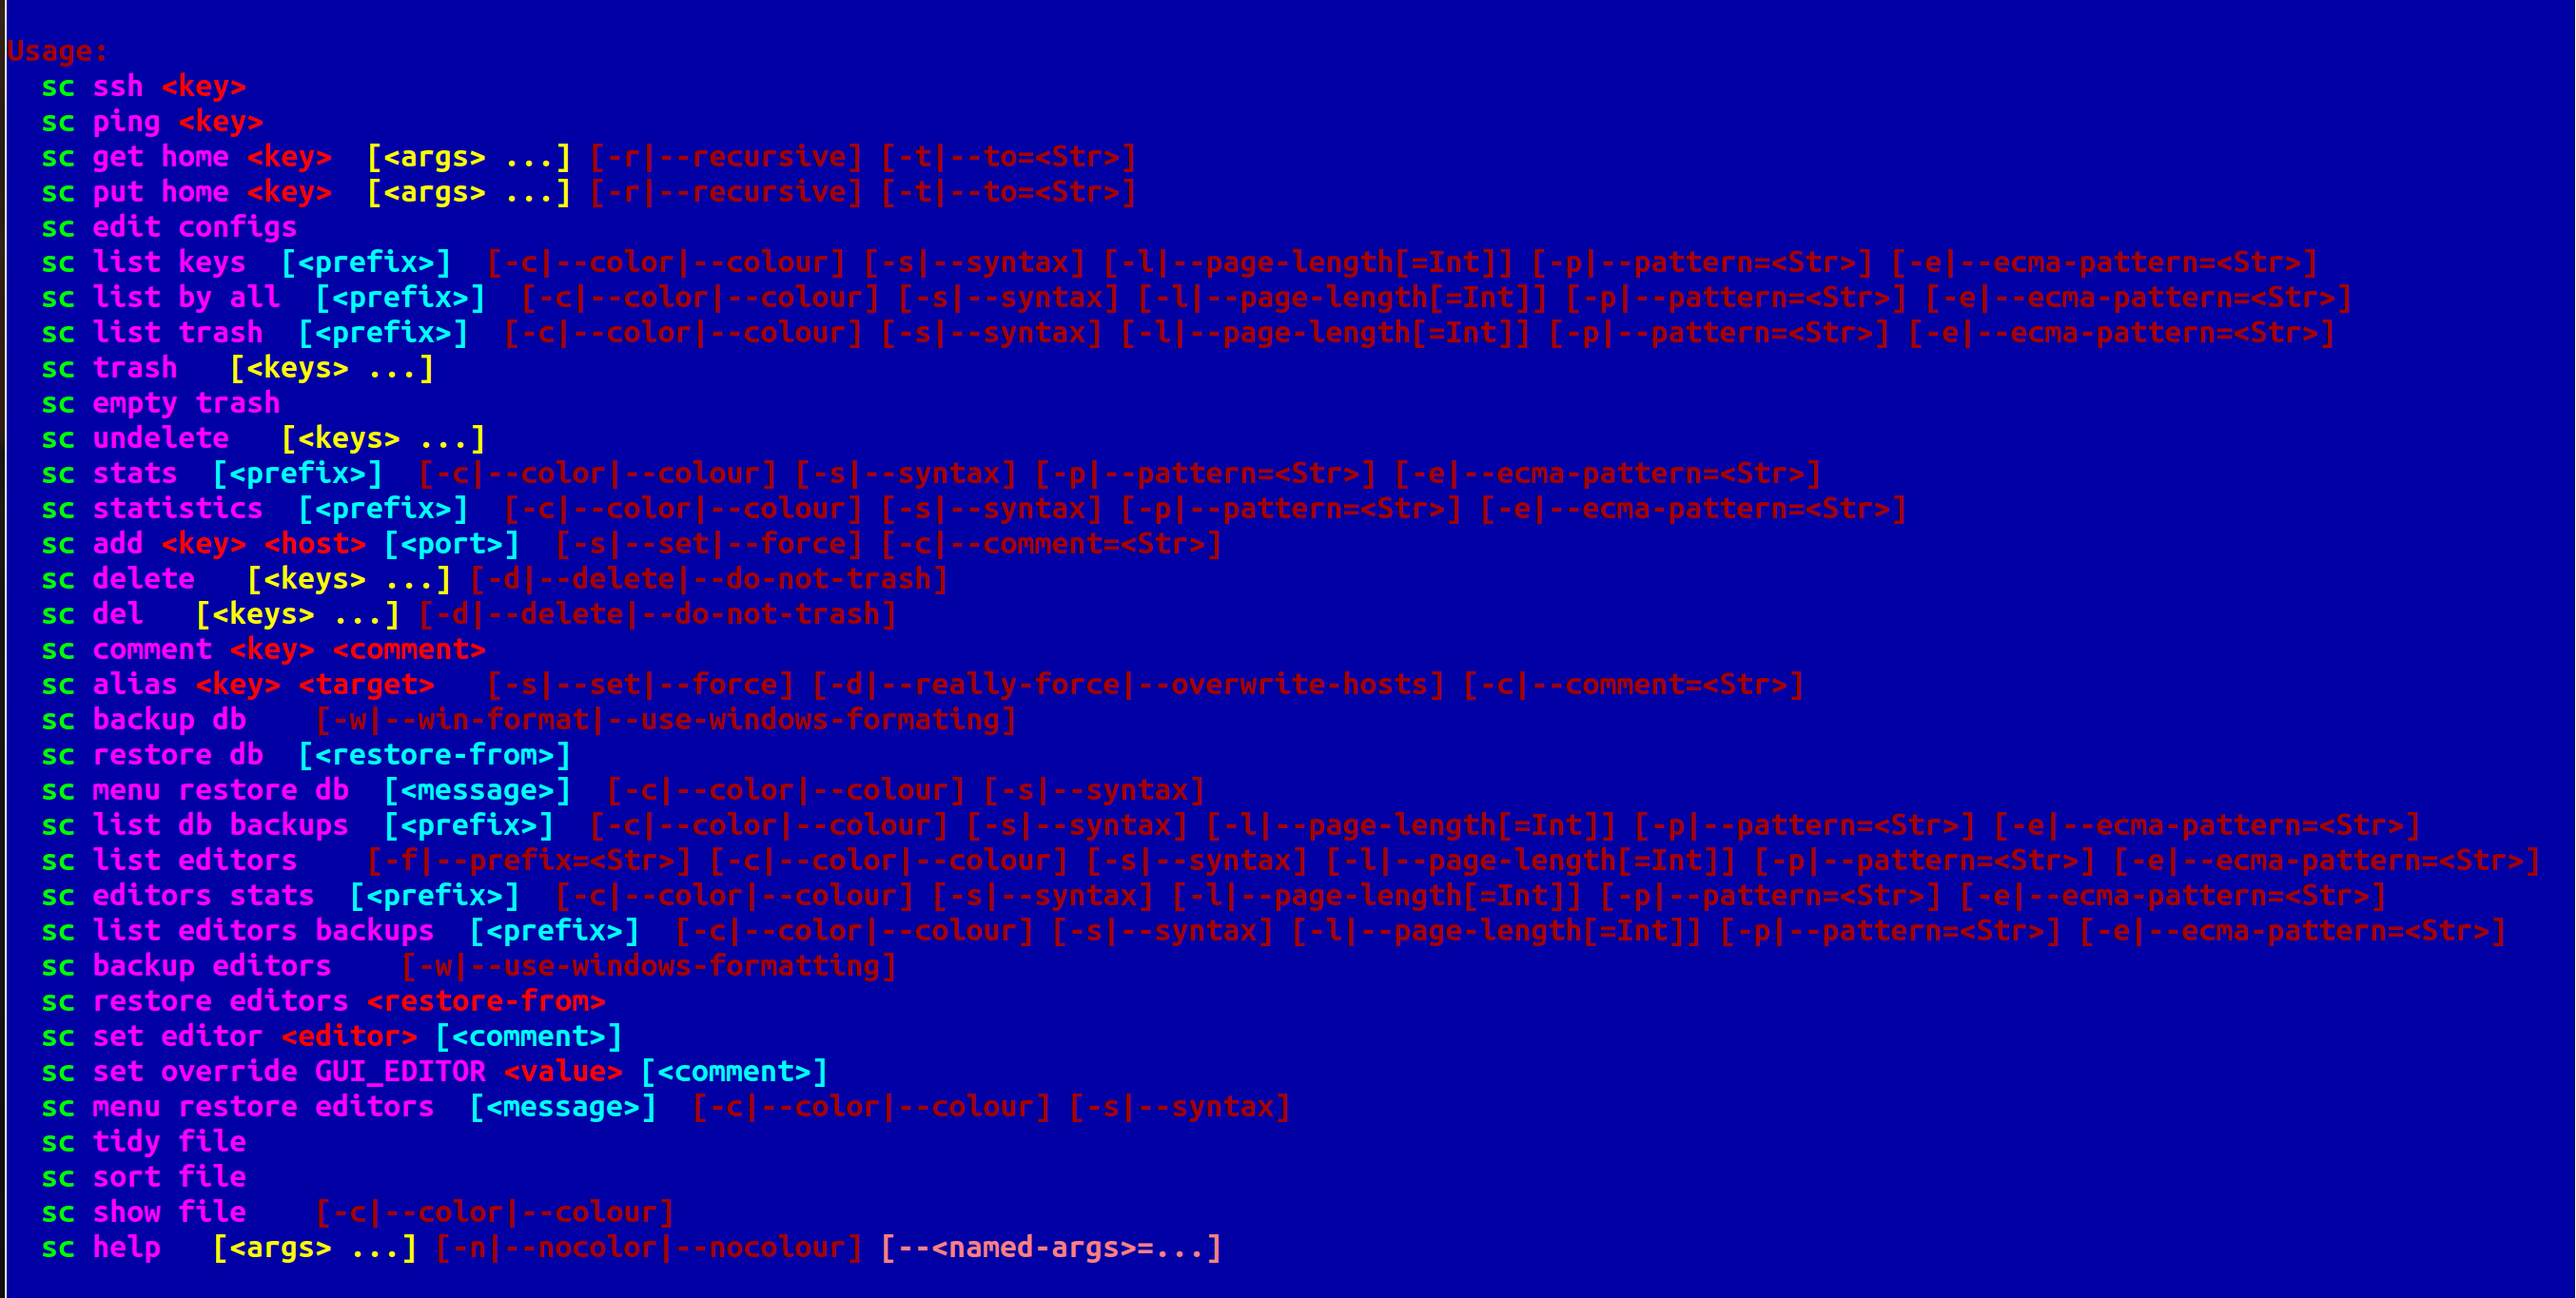
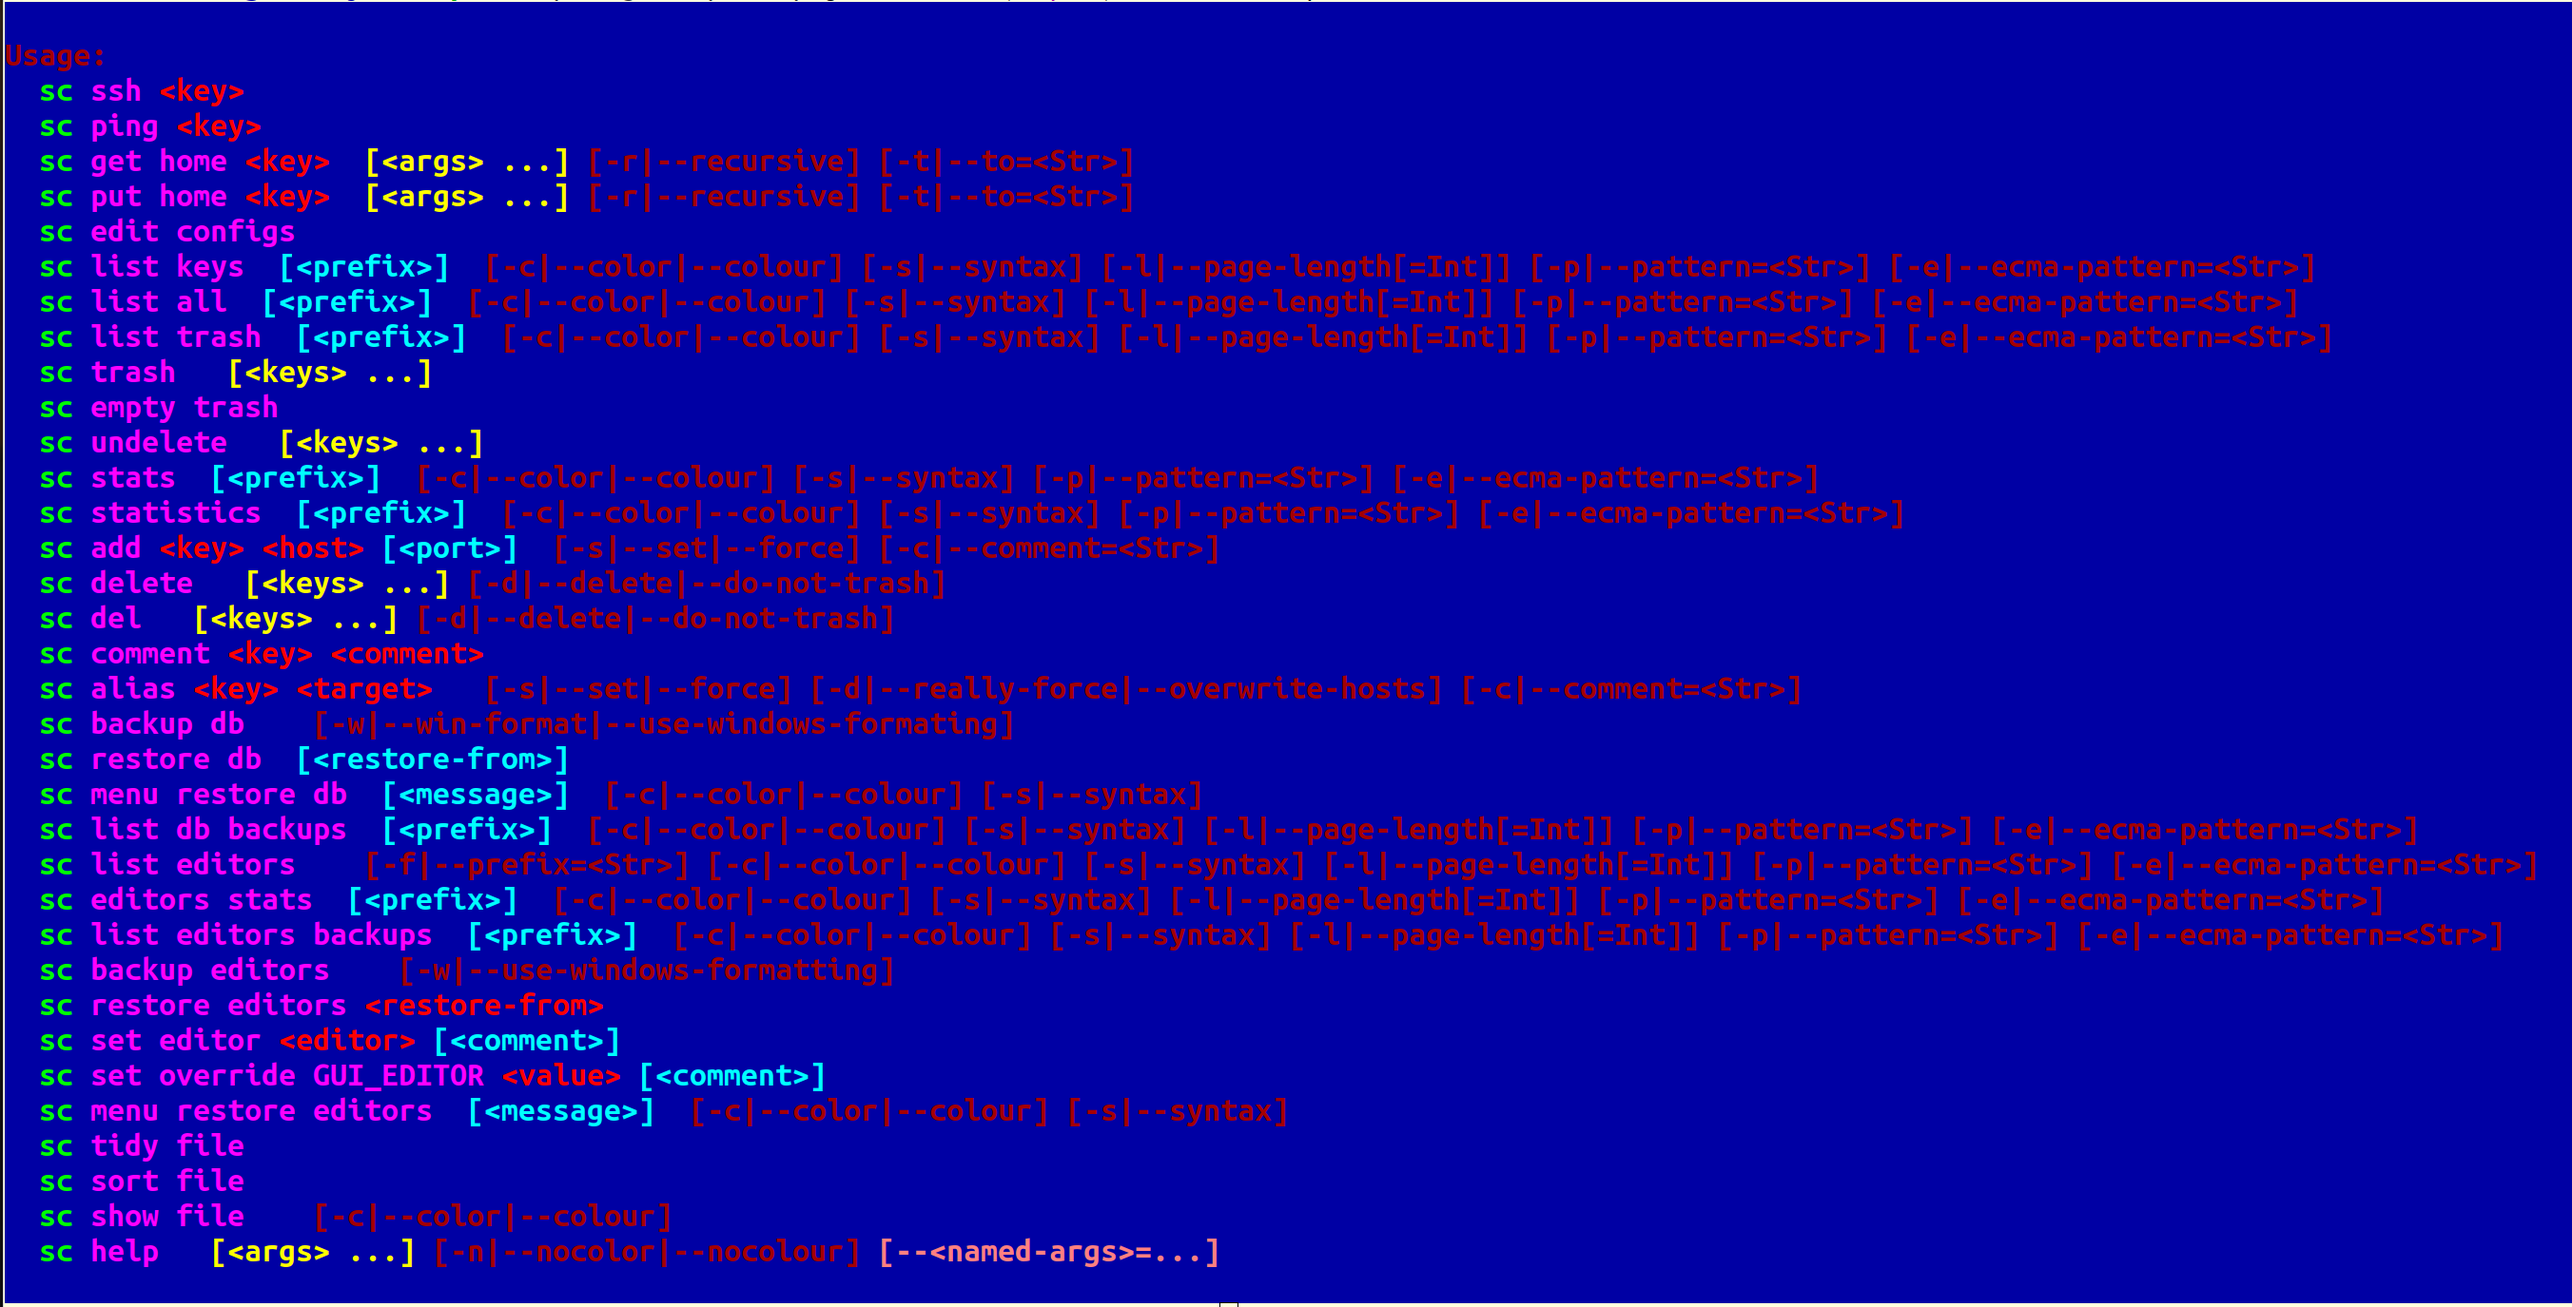
using doc-n-save 2024-01-12T09:57:00.810834+11:00

Changed region(s): [[0.0, 0.0308, 1.0, 1.0], [0.6213, 0.5231, 0.6834, 0.5538], [0.9941, 0.0, 1.0, 0.0308]]

diff --git a/docs/syscon.html b/docs/syscon.html
@@ -592,7 +592,7 @@ footer {
  <tr class="toc-level-2"><td class="toc-text"><a href="#Utility_functions">Utility functions</a></td></tr>
  <tr class="toc-level-3"><td class="toc-text"><a href="#sc_edit_configs">sc edit configs</a></td></tr>
  <tr class="toc-level-3"><td class="toc-text"><a href="#sc_list_keys_">sc list keys </a></td></tr>
- <tr class="toc-level-3"><td class="toc-text"><a href="#sc_list_by_all">sc list by all</a></td></tr>
+ <tr class="toc-level-3"><td class="toc-text"><a href="#sc_list_all">sc list all</a></td></tr>
  <tr class="toc-level-3"><td class="toc-text"><a href="#sc_list_trash">sc list trash</a></td></tr>
  <tr class="toc-level-3"><td class="toc-text"><a href="#sc_trash">sc trash</a></td></tr>
  <tr class="toc-level-3"><td class="toc-text"><a href="#sc_empty_trash">sc empty trash</a></td></tr>
@@ -810,7 +810,7 @@ rtt min/avg/max/mdev = 0.220/0.289/0.831/0.141 ms
 <li><p><strong><code>$key</code></strong> The key of the host to get files from.</p></li>
 <li><p><strong><code>$to</code></strong> The place to put the files defaults to <strong><code>.</code></strong> or here.</p></li>
 <li><p><strong><code>--recursive</code></strong> sets the recursive flag so the files will be copied recursively, allowing a whole file sub tree to be copied.</p></li>
-<li><p><strong><code>$files-on-remote-system……</code></strong> A list of files on the remote system to copy can be anywhere on the remote system.</p></li>
+<li><p><strong><code>$files-on-remote-system……</code></strong> A list of files on the remote system to copy can be anywhere on the remote system (defaults to the logins home directory).</p></li>
 </ul>
 </ul>
 <p>e.g.</p><pre class="pod-block-code">13:38:11 θ62° grizzlysmit@pern:~/tmp $ mkdir scratch
@@ -873,10 +873,10 @@ Syscon.1                                           100%  485     1.0MB/s   00:00
 </pre><p><a href="#table-of-contents">Top of Document</a></p></section><section name="pod"><h3 id="sc_list_keys_"><a href="#syscon,_sc" class="u" title="go to top of document">sc list keys </a></h3>
 <pre class="pod-block-code">$ sc list keys --help
 
-</pre><p>!<a href="/docs/images/sc-list-keys.png.html">image not available here go to the github page</a></p><p><a href="#table-of-contents">Top of Document</a></p></section><section name="pod"><h3 id="sc_list_by_all"><a href="#syscon,_sc" class="u" title="go to top of document">sc list by all</a></h3>
-<pre class="pod-block-code">sc list by all --help
+</pre><p>!<a href="/docs/images/sc-list-keys.png.html">image not available here go to the github page</a></p><p><a href="#table-of-contents">Top of Document</a></p></section><section name="pod"><h3 id="sc_list_all"><a href="#syscon,_sc" class="u" title="go to top of document">sc list all</a></h3>
+<pre class="pod-block-code">sc list all --help
 
-</pre><p>!<a href="/docs/images/sc-list-by-all.png.html">image not available here go to the github page</a></p><pre class="pod-block-code">sc list by all
+</pre><p>!<a href="/docs/images/sc-list-by-all.png.html">image not available here go to the github page</a></p><pre class="pod-block-code">sc list all
 
 </pre><p>!<a href="/docs/images/sc-list-by-all-pattern.png.html">image not available here go to the github page</a></p><p><a href="#table-of-contents">Top of Document</a></p></section><section name="pod"><h3 id="sc_list_trash"><a href="#syscon,_sc" class="u" title="go to top of document">sc list trash</a></h3>
 <pre class="pod-block-code">sc list trash --help
@@ -992,7 +992,7 @@ Usage:
   sc menu restore db [&lt;message&gt;]  [-c|--color|--colour] [-s|--syntax]
 
 </pre><p><a href="#table-of-contents">Top of Document</a></p></section>		</div>
-</div><footer><div>Rendered from <span class="path">UNNAMED</span></div><div>at <span class="time">2024-01-10T03:00:07Z</span></div></footer>
+</div><footer><div>Rendered from <span class="path">UNNAMED</span></div><div>at <span class="time">2024-01-11T22:56:42Z</span></div></footer>
 	</body>
 </html>
 

diff --git a/docs/Syscon.html b/docs/Syscon.html
@@ -606,7 +606,7 @@ constant $config is export = &quot;$home/.local/share/syscon&quot;;
                 *@args --&gt; Bool) is export 
 
 </pre><p><a href="#sc-put-home">See sc put home</a></p><p><a href="#table-of-contents">Top of Document</a></p></section>		</div>
-</div><footer><div>Rendered from <span class="path">UNNAMED</span></div><div>at <span class="time">2024-01-10T03:00:18Z</span></div></footer>
+</div><footer><div>Rendered from <span class="path">UNNAMED</span></div><div>at <span class="time">2024-01-11T22:56:53Z</span></div></footer>
 	</body>
 </html>
 

diff --git a/README.md b/README.md
@@ -334,7 +334,7 @@ $ sc get home $key --to=$to --recursive $files-on-remote-system……
 
     * **`--recursive`** sets the recursive flag so the files will be copied recursively, allowing a whole file sub tree to be copied.
 
-    * **`$files-on-remote-system……`** A list of files on the remote system to copy can be anywhere on the remote system.
+    * **`$files-on-remote-system……`** A list of files on the remote system to copy can be anywhere on the remote system (defaults to the logins home directory).
 
 e.g.
 
@@ -438,16 +438,16 @@ $ sc list keys --help
 
 [Top of Document](#table-of-contents)
 
-### sc list by all
+### sc list all
 
 ```bash
-sc list by all --help
+sc list all --help
 ```
 
 ![image not available here go to the github page](/docs/images/sc-list-by-all.png)
 
 ```bash
-sc list by all
+sc list all
 ```
 
 ![image not available here go to the github page](/docs/images/sc-list-by-all-pattern.png)
